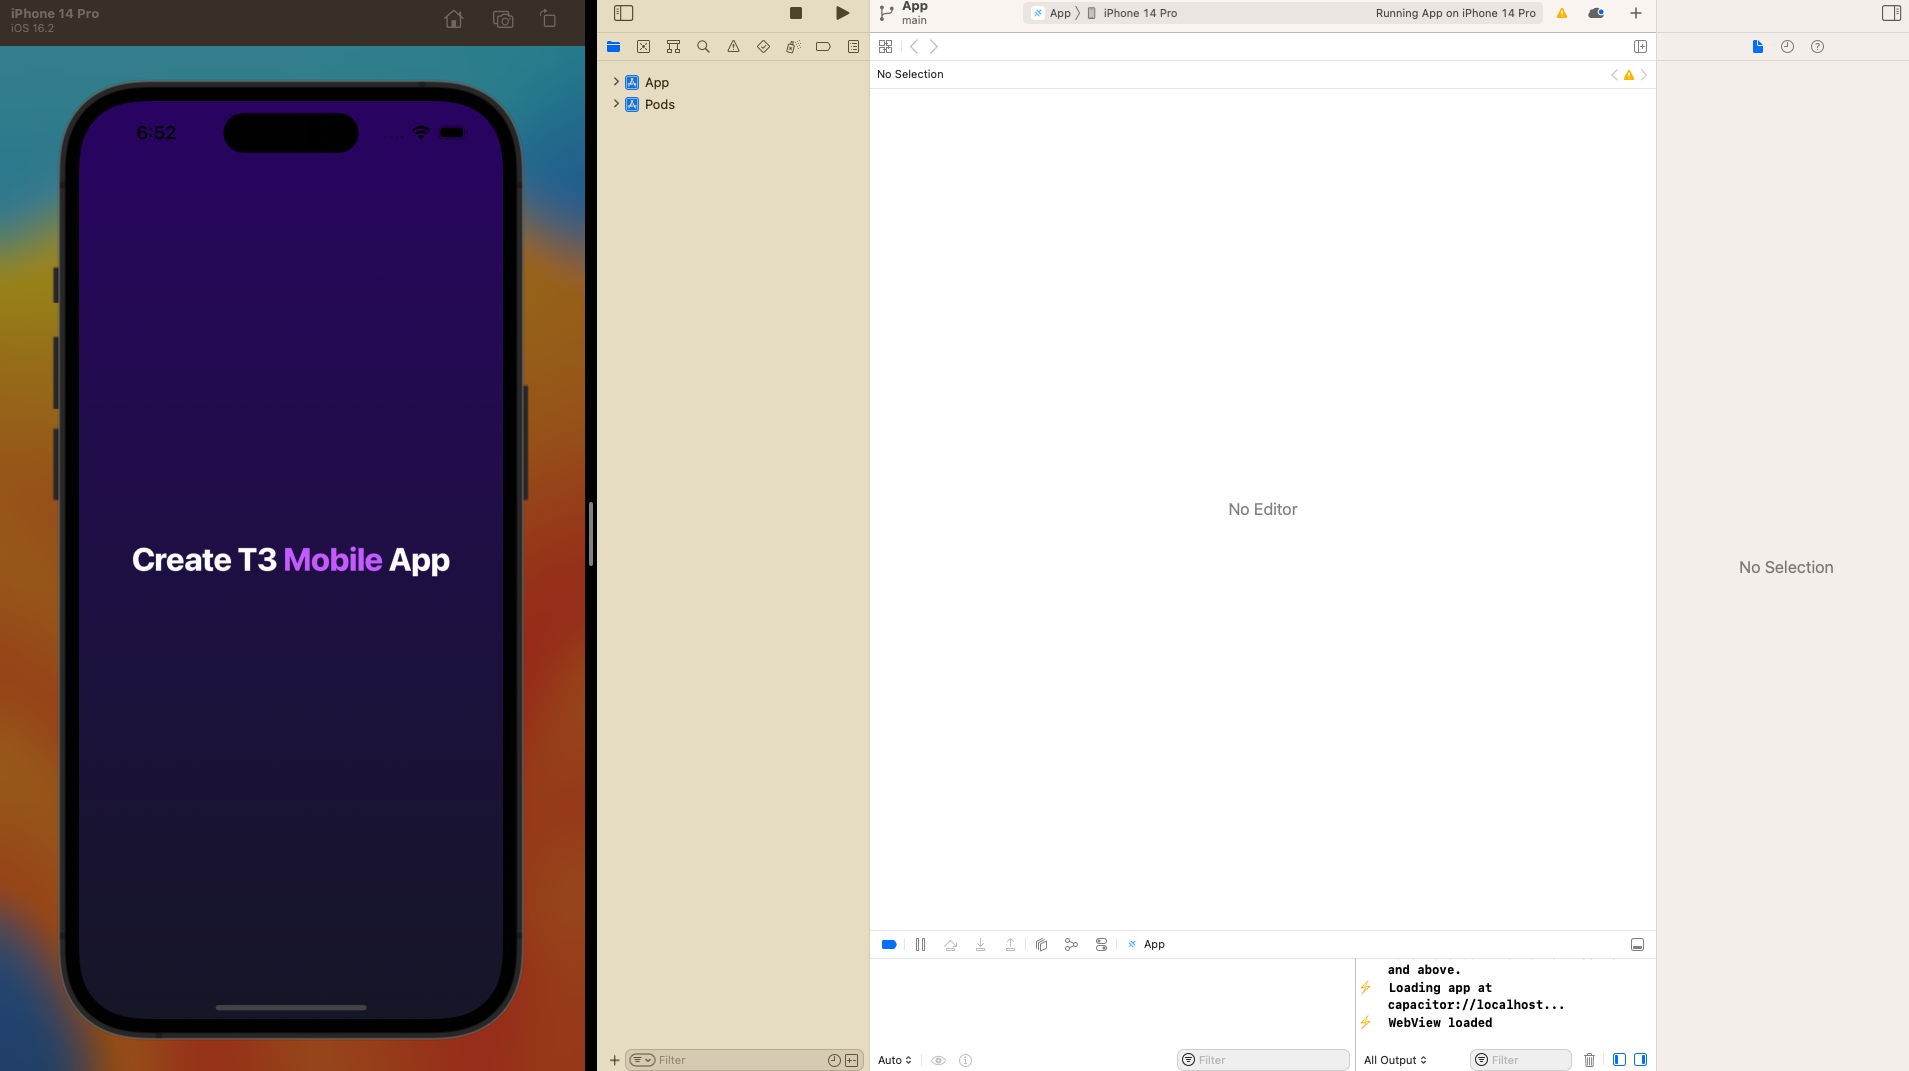
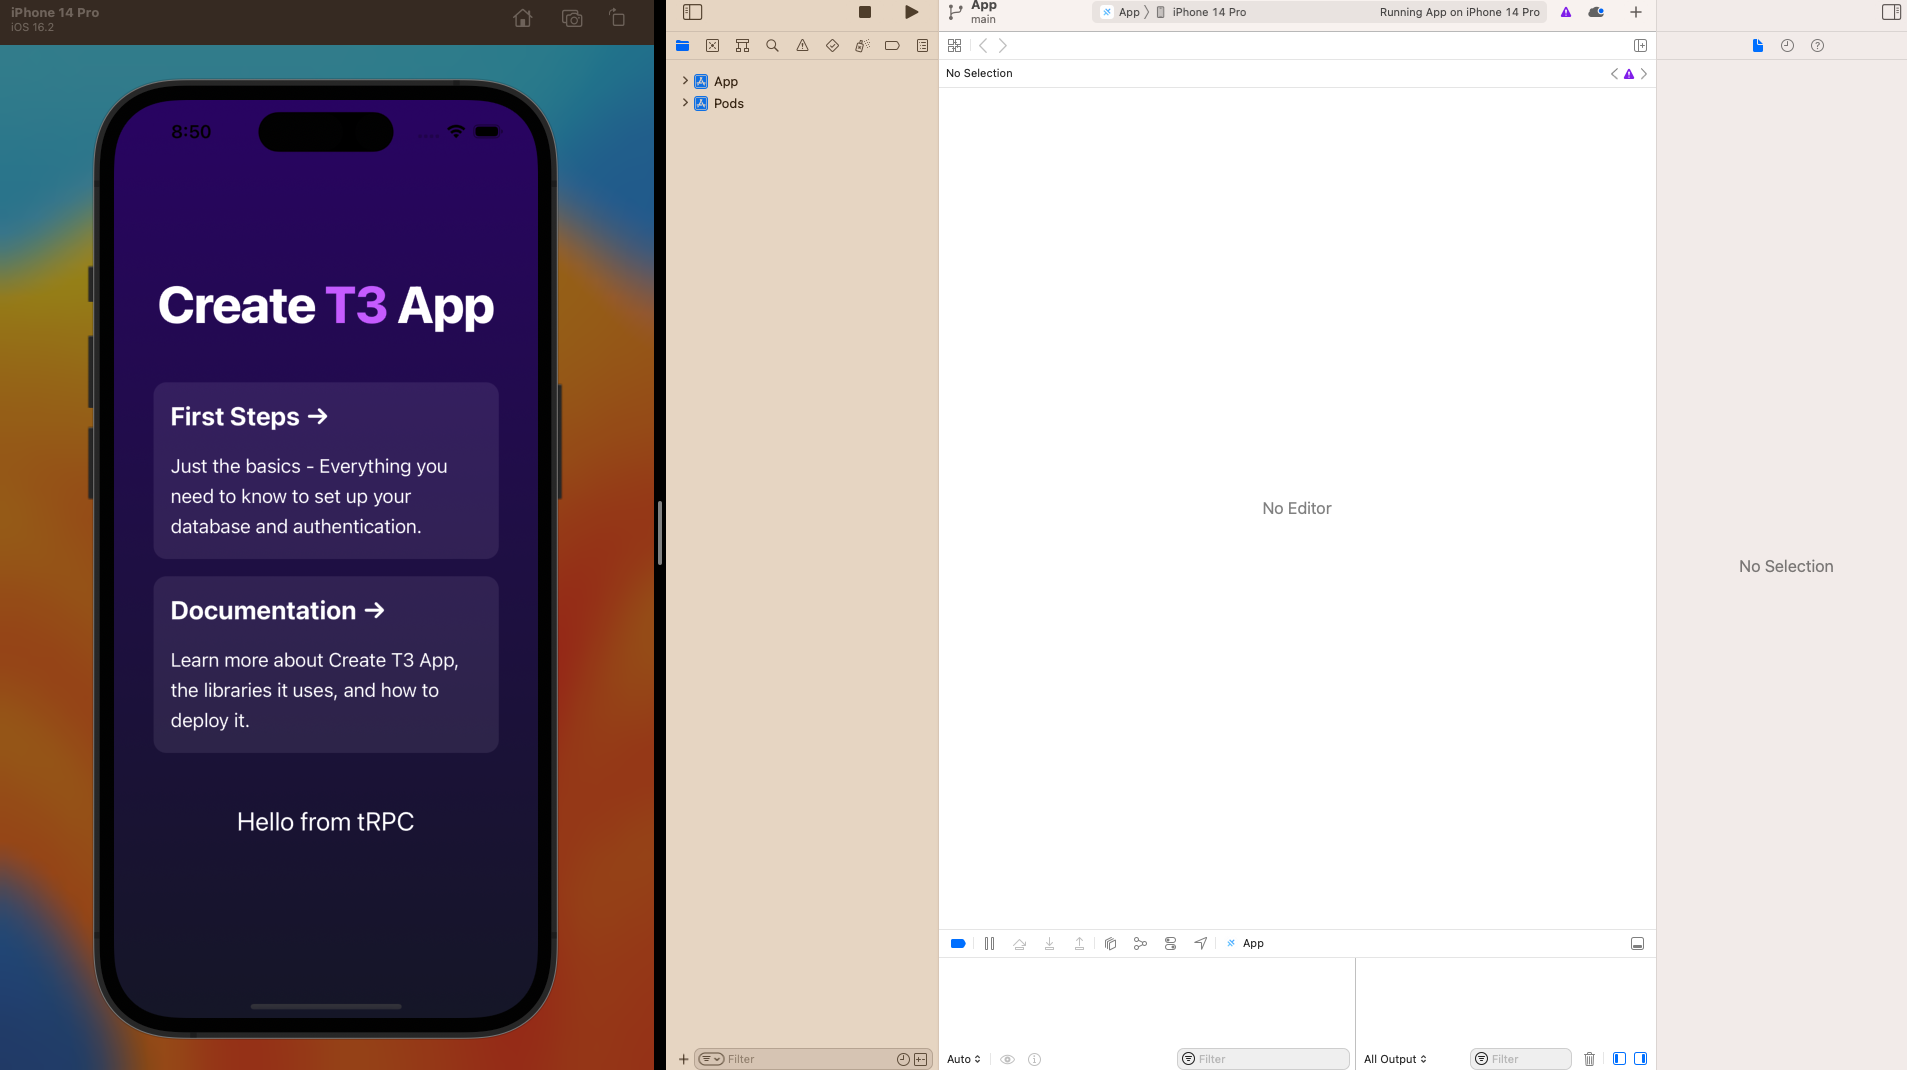
update readme

diff --git a/src/pages/index.tsx b/src/pages/index.tsx
@@ -1,6 +1,10 @@
 import Head from "next/head";
+import Link from "next/link";
+import { api } from "~/utils/api";
 
 export default function Home() {
+  const hello = api.example.hello.useQuery({ text: "from tRPC" });
+
   return (
     <>
       <Head>
@@ -10,9 +14,36 @@ export default function Home() {
       </Head>
       <main className="flex min-h-screen flex-col items-center justify-center bg-gradient-to-b from-[#2e026d] to-[#15162c]">
         <div className="container flex flex-col items-center justify-center gap-12 px-4 py-16 ">
-          <h1 className="text-3xl font-extrabold tracking-tight text-white sm:text-[5rem]">
-            Create T3 <span className="text-[hsl(280,100%,70%)]">Mobile</span> App
+          <h1 className="text-5xl font-extrabold tracking-tight text-white sm:text-[5rem]">
+            Create <span className="text-[hsl(280,100%,70%)]">T3</span> App
           </h1>
+          <div className="grid grid-cols-1 gap-4 sm:grid-cols-2 md:gap-8">
+            <Link
+              className="flex max-w-xs flex-col gap-4 rounded-xl bg-white/10 p-4 text-white hover:bg-white/20"
+              href="https://create.t3.gg/en/usage/first-steps"
+              target="_blank"
+            >
+              <h3 className="text-2xl font-bold">First Steps →</h3>
+              <div className="text-lg">
+                Just the basics - Everything you need to know to set up your
+                database and authentication.
+              </div>
+            </Link>
+            <Link
+              className="flex max-w-xs flex-col gap-4 rounded-xl bg-white/10 p-4 text-white hover:bg-white/20"
+              href="https://create.t3.gg/en/introduction"
+              target="_blank"
+            >
+              <h3 className="text-2xl font-bold">Documentation →</h3>
+              <div className="text-lg">
+                Learn more about Create T3 App, the libraries it uses, and how
+                to deploy it.
+              </div>
+            </Link>
+          </div>
+          <p className="text-2xl text-white">
+            {hello.data ? hello.data.greeting : 'Loading tRPC query'}
+          </p>
         </div>
       </main>
     </>

diff --git a/capacitor.config.ts b/capacitor.config.ts
@@ -6,6 +6,9 @@ const config: CapacitorConfig = {
   webDir: "out",
   server: {
     androidScheme: "https",
+    // For communicate with the server Next.js application with tRPC must be deployed, for example if you are using
+    // Vercel, url should be set to the domain YOURAPP.vercel.app
+    url: "",
   },
 };
 

diff --git a/README.md b/README.md
@@ -8,7 +8,6 @@ This repo is basically bootstrapped with `create-t3-app` so for all T3 related p
 In addition, this repo added support to generate hybrid iOS and Android apps using [Capacitorjs](https://capacitorjs.com/).
 
 <div style="display:flex; flex-direction:row; padding: 5px;">
-  <div style="display: flex; width: fit-content;"><img src="https://github.com/emadgit/create-t3-mobile-app/blob/main/public/android.png" style="width: fit-content;" /></div>
     <div style="display: flex; width: fit-content;"><img src="https://github.com/emadgit/create-t3-mobile-app/blob/main/public/ios.png" style="width: fit-content;" /></div>
 </div>
 
@@ -42,3 +41,13 @@ There's a `capacitor.config.ts` file in the root folder where you can set high-l
 
 For more information see the [Capacitor Docs](https://capacitorjs.com/docs/config#schema)
 
+# tRPC notes
+
+For communicate with the server from the mobile apps, Next.js application with tRPC must be deployed, then you need to set your server url domain in `capacitor.config.ts`, for example:
+
+```
+server: {
+    androidScheme: "https",
+    url: "YOURAPP.vercel.app",
+  },
+```
